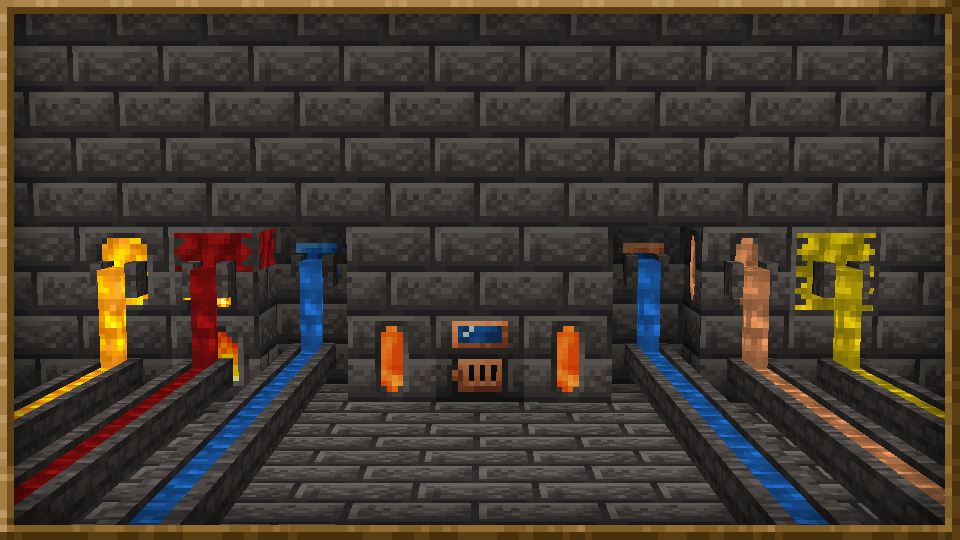
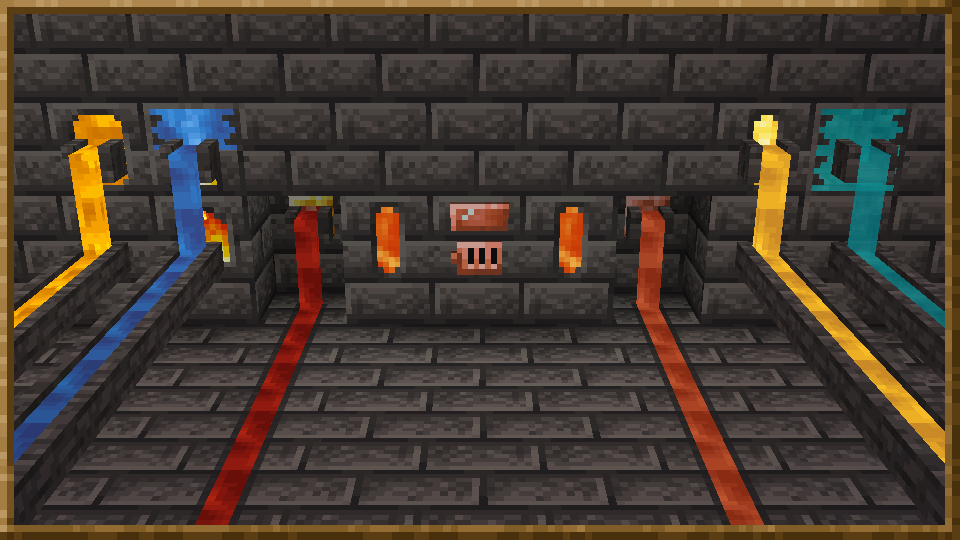
Add more crafting recipes and melting recipes Add a page to fantastic foundry for pipes Fix up scorched pipe fluid rendering Update movingfluids image to include slab channels

diff --git a/src/main/java/slimeknights/tconstruct/smeltery/data/SmelteryRecipeProvider.java b/src/main/java/slimeknights/tconstruct/smeltery/data/SmelteryRecipeProvider.java
@@ -826,7 +826,7 @@ public class SmelteryRecipeProvider extends BaseRecipeProvider implements ISmelt
                        .pattern("###")
                        .pattern(" # ")
                        .unlockedBy("has_item", has(TinkerSmeltery.scorchedBrick))
-                       .save(consumer, location(folder + "channel"));
+                       .save(consumer, location(folder + "full_block_channel"));
 
     // casting
     ShapedRecipeBuilder.shaped(RecipeCategory.DECORATIONS, TinkerSmeltery.scorchedBasin.get())
